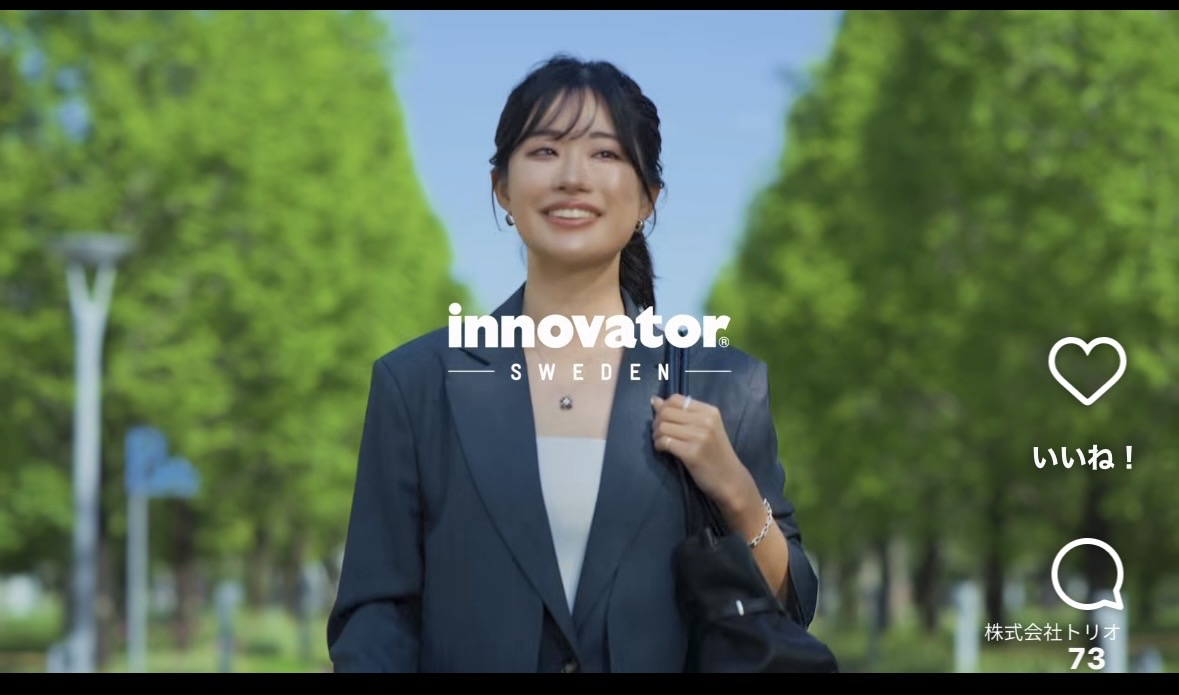
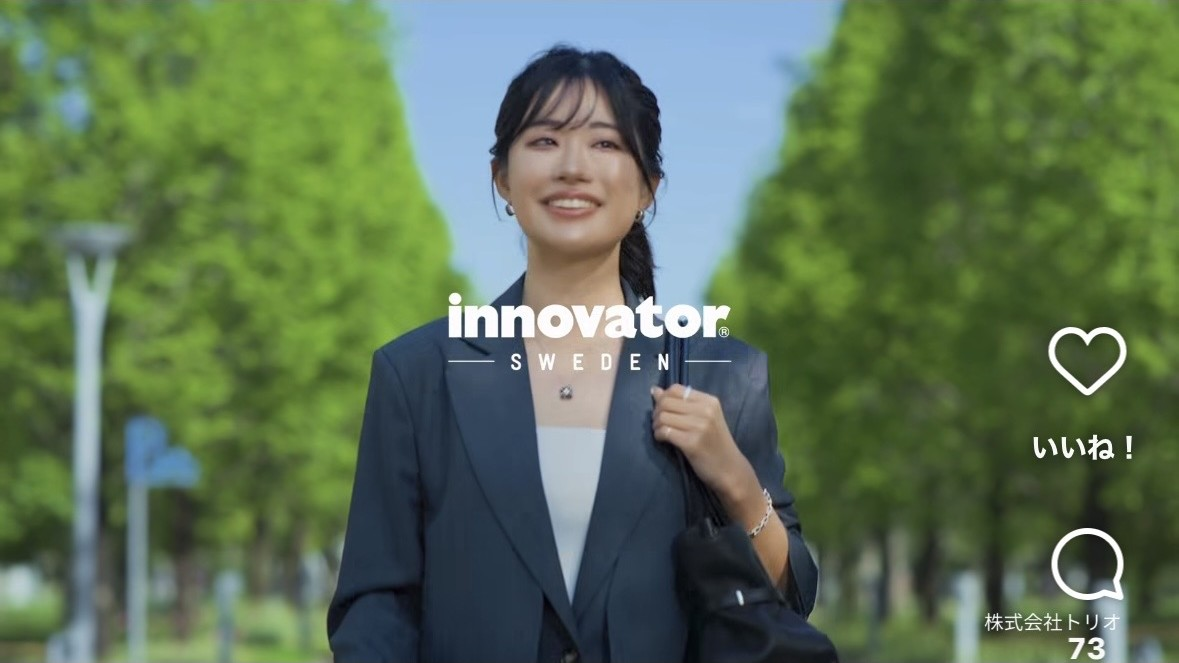
参考の画から、Instagramの画面表示と黒帯を切り落とす
Claude-Session: https://claude.ai/code/session_01BfbN5jHJfa7zbZdrxGCBGx

diff --git a/pdf/innovator_ekonte.html b/pdf/innovator_ekonte.html
@@ -1,1 +1,1 @@
-<html><head><meta charset="utf-8"></head><body><h2>絵コンテ</h2><table style="border-collapse:collapse"><tr><td style="border:1px solid #999;padding:6px;vertical-align:top"><p style="margin:0 0 4px;font-weight:bold;font-size:11pt">ショット1</p><img src="https://raw.githubusercontent.com/Shiori0415/dougaseisaku/claude/4-sheets-later-l5chh0/assets/ref5/01.jpg" width="300" height="175"></td><td style="border:1px solid #999;padding:6px;vertical-align:top"><p style="margin:0 0 4px;font-weight:bold;font-size:11pt">ショット2</p><img src="https://raw.githubusercontent.com/Shiori0415/dougaseisaku/claude/4-sheets-later-l5chh0/assets/ref5/02.jpg" width="300" height="175"></td></tr><tr><td style="border:1px solid #999;padding:6px;vertical-align:top"><p style="margin:0 0 4px;font-weight:bold;font-size:11pt">ショット3</p><img src="https://raw.githubusercontent.com/Shiori0415/dougaseisaku/claude/4-sheets-later-l5chh0/assets/ref5/03.jpg" width="300" height="175"></td><td style="border:1px solid #999;padding:6px;vertical-align:top"><p style="margin:0 0 4px;font-weight:bold;font-size:11pt">ショット4</p><img src="https://raw.githubusercontent.com/Shiori0415/dougaseisaku/claude/4-sheets-later-l5chh0/assets/ref5/04.jpg" width="300" height="175"></td></tr><tr><td style="border:1px solid #999;padding:6px;vertical-align:top"><p style="margin:0 0 4px;font-weight:bold;font-size:11pt">ショット5</p><img src="https://raw.githubusercontent.com/Shiori0415/dougaseisaku/claude/4-sheets-later-l5chh0/assets/ref5/05.jpg" width="300" height="175"></td><td style="border:1px solid #999;padding:6px;vertical-align:top"><p style="margin:0 0 4px;font-weight:bold;font-size:11pt">ショット6</p><img src="https://raw.githubusercontent.com/Shiori0415/dougaseisaku/claude/4-sheets-later-l5chh0/assets/ref5/06.jpg" width="300" height="175"></td></tr><tr><td style="border:1px solid #999;padding:6px;vertical-align:top"><p style="margin:0 0 4px;font-weight:bold;font-size:11pt">ショット7</p><img src="https://raw.githubusercontent.com/Shiori0415/dougaseisaku/claude/4-sheets-later-l5chh0/assets/ref5/07.jpg" width="300" height="175"></td><td style="border:1px solid #999;padding:6px;vertical-align:top"><p style="margin:0 0 4px;font-weight:bold;font-size:11pt">ショット8</p><img src="https://raw.githubusercontent.com/Shiori0415/dougaseisaku/claude/4-sheets-later-l5chh0/assets/ref5/08.jpg" width="300" height="175"></td></tr><tr><td style="border:1px solid #999;padding:6px;vertical-align:top"><p style="margin:0 0 4px;font-weight:bold;font-size:11pt">ショット9</p><img src="https://raw.githubusercontent.com/Shiori0415/dougaseisaku/claude/4-sheets-later-l5chh0/assets/ref5/09.jpg" width="300" height="175"></td><td style="border:1px solid #999;padding:6px;vertical-align:top"><p style="margin:0 0 4px;font-weight:bold;font-size:11pt">ショット10</p><img src="https://raw.githubusercontent.com/Shiori0415/dougaseisaku/claude/4-sheets-later-l5chh0/assets/ref5/10.jpg" width="300" height="175"></td></tr></table></body></html>
+<html><head><meta charset="utf-8"></head><body><h2>絵コンテ</h2><table style="border-collapse:collapse"><tr><td style="border:1px solid #999;padding:6px;vertical-align:top"><p style="margin:0 0 4px;font-weight:bold;font-size:11pt">ショット1</p><img src="https://raw.githubusercontent.com/Shiori0415/dougaseisaku/claude/4-sheets-later-l5chh0/assets/ref5/01.jpg?v=2" width="300" height="169"></td><td style="border:1px solid #999;padding:6px;vertical-align:top"><p style="margin:0 0 4px;font-weight:bold;font-size:11pt">ショット2</p><img src="https://raw.githubusercontent.com/Shiori0415/dougaseisaku/claude/4-sheets-later-l5chh0/assets/ref5/02.jpg?v=2" width="300" height="169"></td></tr><tr><td style="border:1px solid #999;padding:6px;vertical-align:top"><p style="margin:0 0 4px;font-weight:bold;font-size:11pt">ショット3</p><img src="https://raw.githubusercontent.com/Shiori0415/dougaseisaku/claude/4-sheets-later-l5chh0/assets/ref5/03.jpg?v=2" width="300" height="169"></td><td style="border:1px solid #999;padding:6px;vertical-align:top"><p style="margin:0 0 4px;font-weight:bold;font-size:11pt">ショット4</p><img src="https://raw.githubusercontent.com/Shiori0415/dougaseisaku/claude/4-sheets-later-l5chh0/assets/ref5/04.jpg?v=2" width="300" height="169"></td></tr><tr><td style="border:1px solid #999;padding:6px;vertical-align:top"><p style="margin:0 0 4px;font-weight:bold;font-size:11pt">ショット5</p><img src="https://raw.githubusercontent.com/Shiori0415/dougaseisaku/claude/4-sheets-later-l5chh0/assets/ref5/05.jpg?v=2" width="300" height="169"></td><td style="border:1px solid #999;padding:6px;vertical-align:top"><p style="margin:0 0 4px;font-weight:bold;font-size:11pt">ショット6</p><img src="https://raw.githubusercontent.com/Shiori0415/dougaseisaku/claude/4-sheets-later-l5chh0/assets/ref5/06.jpg?v=2" width="300" height="169"></td></tr><tr><td style="border:1px solid #999;padding:6px;vertical-align:top"><p style="margin:0 0 4px;font-weight:bold;font-size:11pt">ショット7</p><img src="https://raw.githubusercontent.com/Shiori0415/dougaseisaku/claude/4-sheets-later-l5chh0/assets/ref5/07.jpg?v=2" width="300" height="169"></td><td style="border:1px solid #999;padding:6px;vertical-align:top"><p style="margin:0 0 4px;font-weight:bold;font-size:11pt">ショット8</p><img src="https://raw.githubusercontent.com/Shiori0415/dougaseisaku/claude/4-sheets-later-l5chh0/assets/ref5/08.jpg?v=2" width="300" height="169"></td></tr><tr><td style="border:1px solid #999;padding:6px;vertical-align:top"><p style="margin:0 0 4px;font-weight:bold;font-size:11pt">ショット9</p><img src="https://raw.githubusercontent.com/Shiori0415/dougaseisaku/claude/4-sheets-later-l5chh0/assets/ref5/09.jpg?v=2" width="300" height="169"></td><td style="border:1px solid #999;padding:6px;vertical-align:top"><p style="margin:0 0 4px;font-weight:bold;font-size:11pt">ショット10</p><img src="https://raw.githubusercontent.com/Shiori0415/dougaseisaku/claude/4-sheets-later-l5chh0/assets/ref5/10.jpg?v=2" width="300" height="169"></td></tr></table></body></html>

diff --git a/pdf/parisawang_ekonte.html b/pdf/parisawang_ekonte.html
@@ -1,1 +1,1 @@
-<html><head><meta charset="utf-8"></head><body><h2>絵コンテ</h2><table style="border-collapse:collapse"><tr><td style="border:1px solid #999;padding:6px;vertical-align:top"><p style="margin:0 0 4px;font-weight:bold;font-size:11pt">ショット1</p><img src="https://raw.githubusercontent.com/Shiori0415/dougaseisaku/claude/4-sheets-later-l5chh0/assets/ref6/01.jpg" width="150" height="325"></td><td style="border:1px solid #999;padding:6px;vertical-align:top"><p style="margin:0 0 4px;font-weight:bold;font-size:11pt">ショット2</p><img src="https://raw.githubusercontent.com/Shiori0415/dougaseisaku/claude/4-sheets-later-l5chh0/assets/ref6/02.jpg" width="150" height="325"></td><td style="border:1px solid #999;padding:6px;vertical-align:top"><p style="margin:0 0 4px;font-weight:bold;font-size:11pt">ショット3</p><img src="https://raw.githubusercontent.com/Shiori0415/dougaseisaku/claude/4-sheets-later-l5chh0/assets/ref6/03.jpg" width="150" height="325"></td></tr><tr><td style="border:1px solid #999;padding:6px;vertical-align:top"><p style="margin:0 0 4px;font-weight:bold;font-size:11pt">ショット4</p><img src="https://raw.githubusercontent.com/Shiori0415/dougaseisaku/claude/4-sheets-later-l5chh0/assets/ref6/04.jpg" width="150" height="325"></td><td style="border:1px solid #999;padding:6px;vertical-align:top"><p style="margin:0 0 4px;font-weight:bold;font-size:11pt">ショット5</p><img src="https://raw.githubusercontent.com/Shiori0415/dougaseisaku/claude/4-sheets-later-l5chh0/assets/ref6/05.jpg" width="150" height="325"></td><td style="border:1px solid #999;padding:6px;vertical-align:top"><p style="margin:0 0 4px;font-weight:bold;font-size:11pt">ショット6</p><img src="https://raw.githubusercontent.com/Shiori0415/dougaseisaku/claude/4-sheets-later-l5chh0/assets/ref6/06.jpg" width="150" height="325"></td></tr></table></body></html>
+<html><head><meta charset="utf-8"></head><body><h2>絵コンテ</h2><table style="border-collapse:collapse"><tr><td style="border:1px solid #999;padding:6px;vertical-align:top"><p style="margin:0 0 4px;font-weight:bold;font-size:11pt">ショット1</p><img src="https://raw.githubusercontent.com/Shiori0415/dougaseisaku/claude/4-sheets-later-l5chh0/assets/ref6/01.jpg?v=2" width="150" height="195"></td><td style="border:1px solid #999;padding:6px;vertical-align:top"><p style="margin:0 0 4px;font-weight:bold;font-size:11pt">ショット2</p><img src="https://raw.githubusercontent.com/Shiori0415/dougaseisaku/claude/4-sheets-later-l5chh0/assets/ref6/02.jpg?v=2" width="150" height="195"></td><td style="border:1px solid #999;padding:6px;vertical-align:top"><p style="margin:0 0 4px;font-weight:bold;font-size:11pt">ショット3</p><img src="https://raw.githubusercontent.com/Shiori0415/dougaseisaku/claude/4-sheets-later-l5chh0/assets/ref6/03.jpg?v=2" width="150" height="195"></td></tr><tr><td style="border:1px solid #999;padding:6px;vertical-align:top"><p style="margin:0 0 4px;font-weight:bold;font-size:11pt">ショット4</p><img src="https://raw.githubusercontent.com/Shiori0415/dougaseisaku/claude/4-sheets-later-l5chh0/assets/ref6/04.jpg?v=2" width="150" height="195"></td><td style="border:1px solid #999;padding:6px;vertical-align:top"><p style="margin:0 0 4px;font-weight:bold;font-size:11pt">ショット5</p><img src="https://raw.githubusercontent.com/Shiori0415/dougaseisaku/claude/4-sheets-later-l5chh0/assets/ref6/05.jpg?v=2" width="150" height="195"></td><td style="border:1px solid #999;padding:6px;vertical-align:top"><p style="margin:0 0 4px;font-weight:bold;font-size:11pt">ショット6</p><img src="https://raw.githubusercontent.com/Shiori0415/dougaseisaku/claude/4-sheets-later-l5chh0/assets/ref6/06.jpg?v=2" width="150" height="195"></td></tr></table></body></html>

diff --git a/pdf/chloecleroux_ekonte.html b/pdf/chloecleroux_ekonte.html
@@ -1,1 +1,1 @@
-<html><head><meta charset="utf-8"></head><body><h2>絵コンテ</h2><table style="border-collapse:collapse"><tr><td style="border:1px solid #999;padding:6px;vertical-align:top"><p style="margin:0 0 4px;font-weight:bold;font-size:11pt">ショット1</p><img src="https://raw.githubusercontent.com/Shiori0415/dougaseisaku/claude/4-sheets-later-l5chh0/assets/ref7/01.jpg" width="150" height="325"></td><td style="border:1px solid #999;padding:6px;vertical-align:top"><p style="margin:0 0 4px;font-weight:bold;font-size:11pt">ショット2</p><img src="https://raw.githubusercontent.com/Shiori0415/dougaseisaku/claude/4-sheets-later-l5chh0/assets/ref7/02.jpg" width="150" height="325"></td><td style="border:1px solid #999;padding:6px;vertical-align:top"><p style="margin:0 0 4px;font-weight:bold;font-size:11pt">ショット3</p><img src="https://raw.githubusercontent.com/Shiori0415/dougaseisaku/claude/4-sheets-later-l5chh0/assets/ref7/03.jpg" width="150" height="325"></td><td style="border:1px solid #999;padding:6px;vertical-align:top"><p style="margin:0 0 4px;font-weight:bold;font-size:11pt">ショット4</p><img src="https://raw.githubusercontent.com/Shiori0415/dougaseisaku/claude/4-sheets-later-l5chh0/assets/ref7/04.jpg" width="150" height="325"></td></tr></table></body></html>
+<html><head><meta charset="utf-8"></head><body><h2>絵コンテ</h2><table style="border-collapse:collapse"><tr><td style="border:1px solid #999;padding:6px;vertical-align:top"><p style="margin:0 0 4px;font-weight:bold;font-size:11pt">ショット1</p><img src="https://raw.githubusercontent.com/Shiori0415/dougaseisaku/claude/4-sheets-later-l5chh0/assets/ref7/01.jpg?v=2" width="150" height="195"></td><td style="border:1px solid #999;padding:6px;vertical-align:top"><p style="margin:0 0 4px;font-weight:bold;font-size:11pt">ショット2</p><img src="https://raw.githubusercontent.com/Shiori0415/dougaseisaku/claude/4-sheets-later-l5chh0/assets/ref7/02.jpg?v=2" width="150" height="195"></td><td style="border:1px solid #999;padding:6px;vertical-align:top"><p style="margin:0 0 4px;font-weight:bold;font-size:11pt">ショット3</p><img src="https://raw.githubusercontent.com/Shiori0415/dougaseisaku/claude/4-sheets-later-l5chh0/assets/ref7/03.jpg?v=2" width="150" height="195"></td><td style="border:1px solid #999;padding:6px;vertical-align:top"><p style="margin:0 0 4px;font-weight:bold;font-size:11pt">ショット4</p><img src="https://raw.githubusercontent.com/Shiori0415/dougaseisaku/claude/4-sheets-later-l5chh0/assets/ref7/04.jpg?v=2" width="150" height="195"></td></tr></table></body></html>
